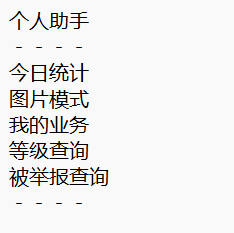
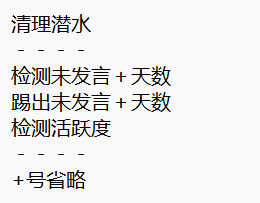
GitBook: [#11] No subject

diff --git a/README.md b/README.md
@@ -30,7 +30,7 @@
 
 ### 请确保完全按照步骤**操作**，登录指南上存在解决方案的一切问题，客服不予回复
 
-### <mark style="color:red;">**登录/购买 即代表您已经完全阅读和接受本文条款和明白使用方法，不支持以任何存在于本文的问题退款**</mark>
+### <mark style="color:red;">**登录/购买 即默认您已经完全阅读和接受本文条款和明白使用方法，不支持以任何存在于本文的问题退款**</mark>
 
 {% content-ref url="deng-lu-zhi-nan/sao-ma-deng-lu.md" %}
 [sao-ma-deng-lu.md](deng-lu-zhi-nan/sao-ma-deng-lu.md)
@@ -44,33 +44,37 @@
 _<mark style="color:red;">**登录协议默认为iPad登录，出现iPad登录的标志属于正常情况，如果需要使用iPad，可联系客服把协议换成手表协议**</mark>_
 {% endhint %}
 
-### 功能介绍
+### 菜单预览
+
+> －－－－－－－－－
+>
+> &#x20;[虹包功能](gong-neng-jie-shao/hong-bao-gong-neng.md)◆处理助手&#x20;
+>
+> 个人助手◇自助头衔&#x20;
+>
+> 监控设置◆自身撤回&#x20;
+>
+> 群管功能◇群发助手&#x20;
+>
+> 打卡功能◆清理潜水&#x20;
+>
+> 菜单设置◇艾特回复&#x20;
+>
+> 定时任务◆代理系统&#x20;
+>
+> 自动续火◇收米管家&#x20;
+>
+> 卡密系统◆问答系统&#x20;
+>
+> 消息备注◇秒赞秒评&#x20;
+>
+> 屏蔽功能◆账号控制&#x20;
+>
+> 点歌系统◇表情功能&#x20;
+>
+> －－－－－－－－－
 
 介绍大坏蛋个人助手的具体功能，买前先了解
-
-{% content-ref url="gong-neng-jie-shao/hong-bao-gong-neng.md" %}
-[hong-bao-gong-neng.md](gong-neng-jie-shao/hong-bao-gong-neng.md)
-{% endcontent-ref %}
-
-{% content-ref url="gong-neng-jie-shao/qun-fa-gong-neng.md" %}
-[qun-fa-gong-neng.md](gong-neng-jie-shao/qun-fa-gong-neng.md)
-{% endcontent-ref %}
-
-{% content-ref url="gong-neng-jie-shao/zi-zhu-tou-xian.md" %}
-[zi-zhu-tou-xian.md](gong-neng-jie-shao/zi-zhu-tou-xian.md)
-{% endcontent-ref %}
-
-{% content-ref url="gong-neng-jie-shao/chu-li-zhu-shou.md" %}
-[chu-li-zhu-shou.md](gong-neng-jie-shao/chu-li-zhu-shou.md)
-{% endcontent-ref %}
-
-{% content-ref url="gong-neng-jie-shao/miao-zan-miao-ping.md" %}
-[miao-zan-miao-ping.md](gong-neng-jie-shao/miao-zan-miao-ping.md)
-{% endcontent-ref %}
-
-{% content-ref url="gong-neng-jie-shao/xiao-xi-bei-zhu.md" %}
-[xiao-xi-bei-zhu.md](gong-neng-jie-shao/xiao-xi-bei-zhu.md)
-{% endcontent-ref %}
 
 {% hint style="info" %}
 <mark style="color:red;">**大坏蛋个人助手支持小号挂机，大号控制**</mark>

diff --git a/gong-neng-jie-shao/qun-fa-gong-neng.md b/gong-neng-jie-shao/qun-fa-gong-neng.md
@@ -18,11 +18,11 @@
 
 定时群发就是自己定在某个时间段发送一条群发消息，<mark style="color:red;">**注意设置时间格式中的冒号“：”，需要用英文的冒号**</mark>
 
-![](<../.gitbook/assets/image (3) (2).png>)![](<../.gitbook/assets/image (14).png>)
+![](<../.gitbook/assets/image (3).png>)![](<../.gitbook/assets/image (14).png>)
 
 ## 循环群发
 
 可以循环一直群发内容，建议时间间隔设置不要太短
 
-![](<../.gitbook/assets/image (4) (3).png>)![](<../.gitbook/assets/image (10).png>)
+![](<../.gitbook/assets/image (4) (3).png>)![](<../.gitbook/assets/image (10) (2).png>)
 

diff --git a/gong-neng-jie-shao/qun-guan-gong-neng.md b/gong-neng-jie-shao/qun-guan-gong-neng.md
@@ -1,0 +1,13 @@
+# 群管功能
+
+{% hint style="info" %}
+**当你不想开启自助头衔，又懒得去一个一个给的时候怎么办？群管功能来帮你**
+{% endhint %}
+
+## 功能预览
+
+![](<../.gitbook/assets/image (9).png>)![](<../.gitbook/assets/image (10).png>)
+
+**本助手包含基础群管功能，懒人福音，轻松给头衔**
+
+****

diff --git a/gong-neng-jie-shao/ge-ren-zhu-shou.md b/gong-neng-jie-shao/ge-ren-zhu-shou.md
@@ -6,7 +6,7 @@
 
 ## 功能预览
 
-![](<../.gitbook/assets/image (12).png>)![](<../.gitbook/assets/image (4) (4).png>)![](<../.gitbook/assets/image (1).png>)
+![](<../.gitbook/assets/image (12) (2).png>)![](<../.gitbook/assets/image (4).png>)![](<../.gitbook/assets/image (1) (4).png>)
 
 **今日统计里的数据仅为预览\~**
 

diff --git a/SUMMARY.md b/SUMMARY.md
@@ -21,6 +21,8 @@
 * [监控设置](gong-neng-jie-shao/jian-kong-she-zhi.md)
 * [个人助手](gong-neng-jie-shao/ge-ren-zhu-shou.md)
 * [打卡功能](gong-neng-jie-shao/da-ka-gong-neng.md)
+* [群管功能](gong-neng-jie-shao/qun-guan-gong-neng.md)
+* [清理潜水](gong-neng-jie-shao/qing-li-qian-shui.md)
 
 ## Use Cases
 

diff --git a/gong-neng-jie-shao/da-ka-gong-neng.md b/gong-neng-jie-shao/da-ka-gong-neng.md
@@ -6,5 +6,5 @@
 
 **打卡功能可以帮助您在所有群内一键打卡，快速升级群聊等级，同时支持**[**屏蔽功能**](ping-bi-gong-neng.md)**，再也不怕打卡到师生群同学群社死啦**
 
-![](../.gitbook/assets/image.png)
+![](<../.gitbook/assets/image (1).png>)
 

diff --git a/gong-neng-jie-shao/qing-li-qian-shui.md b/gong-neng-jie-shao/qing-li-qian-shui.md
@@ -1,0 +1,10 @@
+# 清理潜水
+
+{% hint style="info" %}
+群人数上限快满了怎么办，一个一个手动踢出太麻烦，清理潜水一键踢出
+{% endhint %}
+
+## 功能预览
+
+![](<../.gitbook/assets/image (12).png>)
+

diff --git a/gong-neng-jie-shao/ping-bi-gong-neng.md b/gong-neng-jie-shao/ping-bi-gong-neng.md
@@ -8,4 +8,4 @@
 
 就是一个[红包功能](hong-bao-gong-neng.md)和打卡功能的加白名单。防止打卡和抢红包到不允许的群
 
-![](<../.gitbook/assets/image (4).png>)
+![](<../.gitbook/assets/image (24).png>)

diff --git a/gong-neng-jie-shao/chu-li-zhu-shou.md b/gong-neng-jie-shao/chu-li-zhu-shou.md
@@ -16,4 +16,5 @@
 
 一键更改所有群昵称，很适合群发用户广告改名哦
 
-![](<../.gitbook/assets/image (9).png>)
+![](<../.gitbook/assets/image (9) (2).png>)
+
